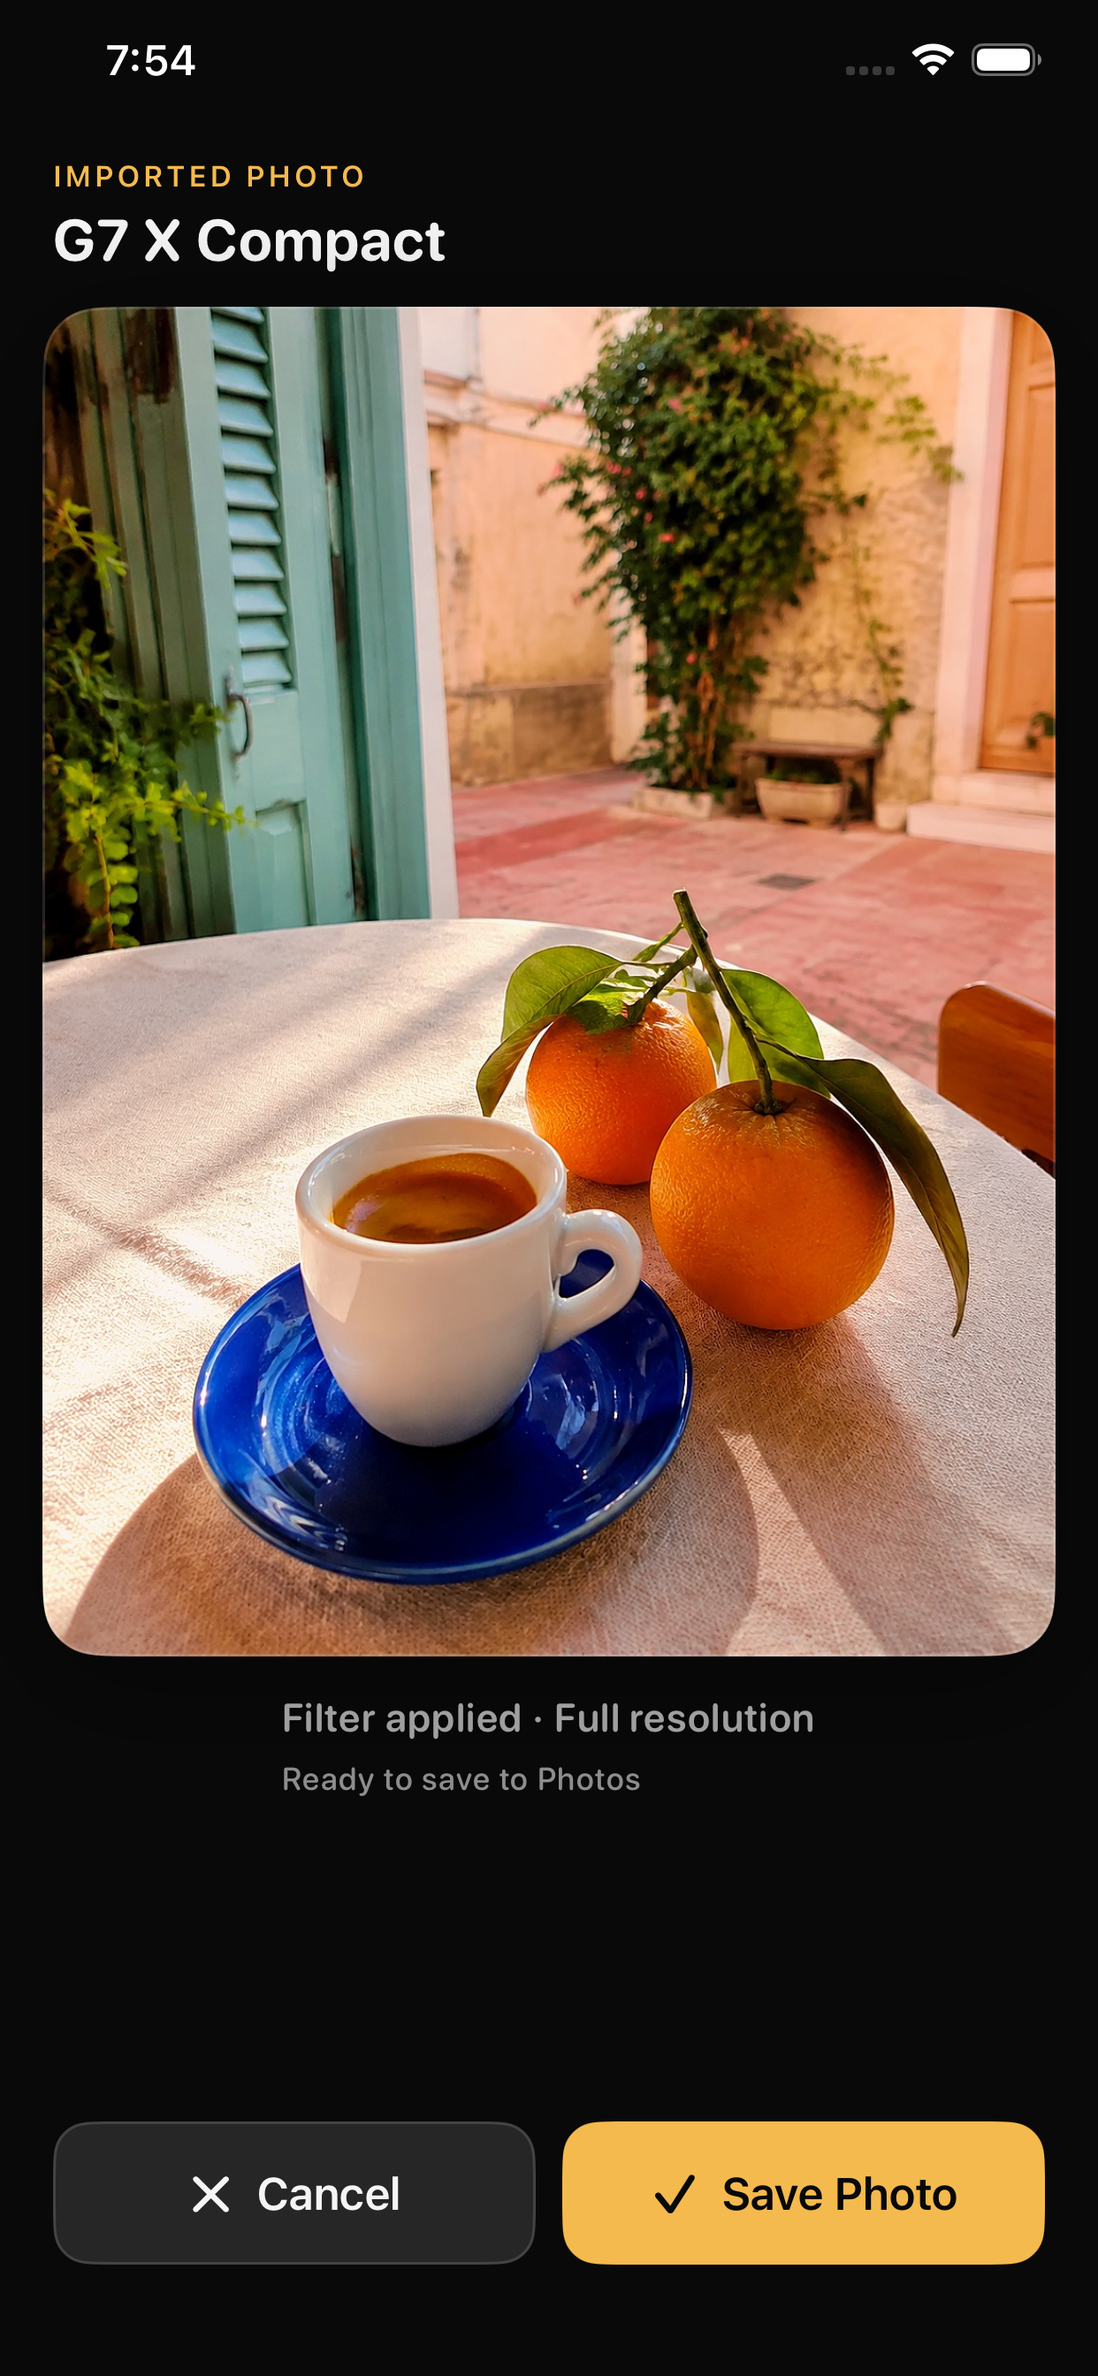
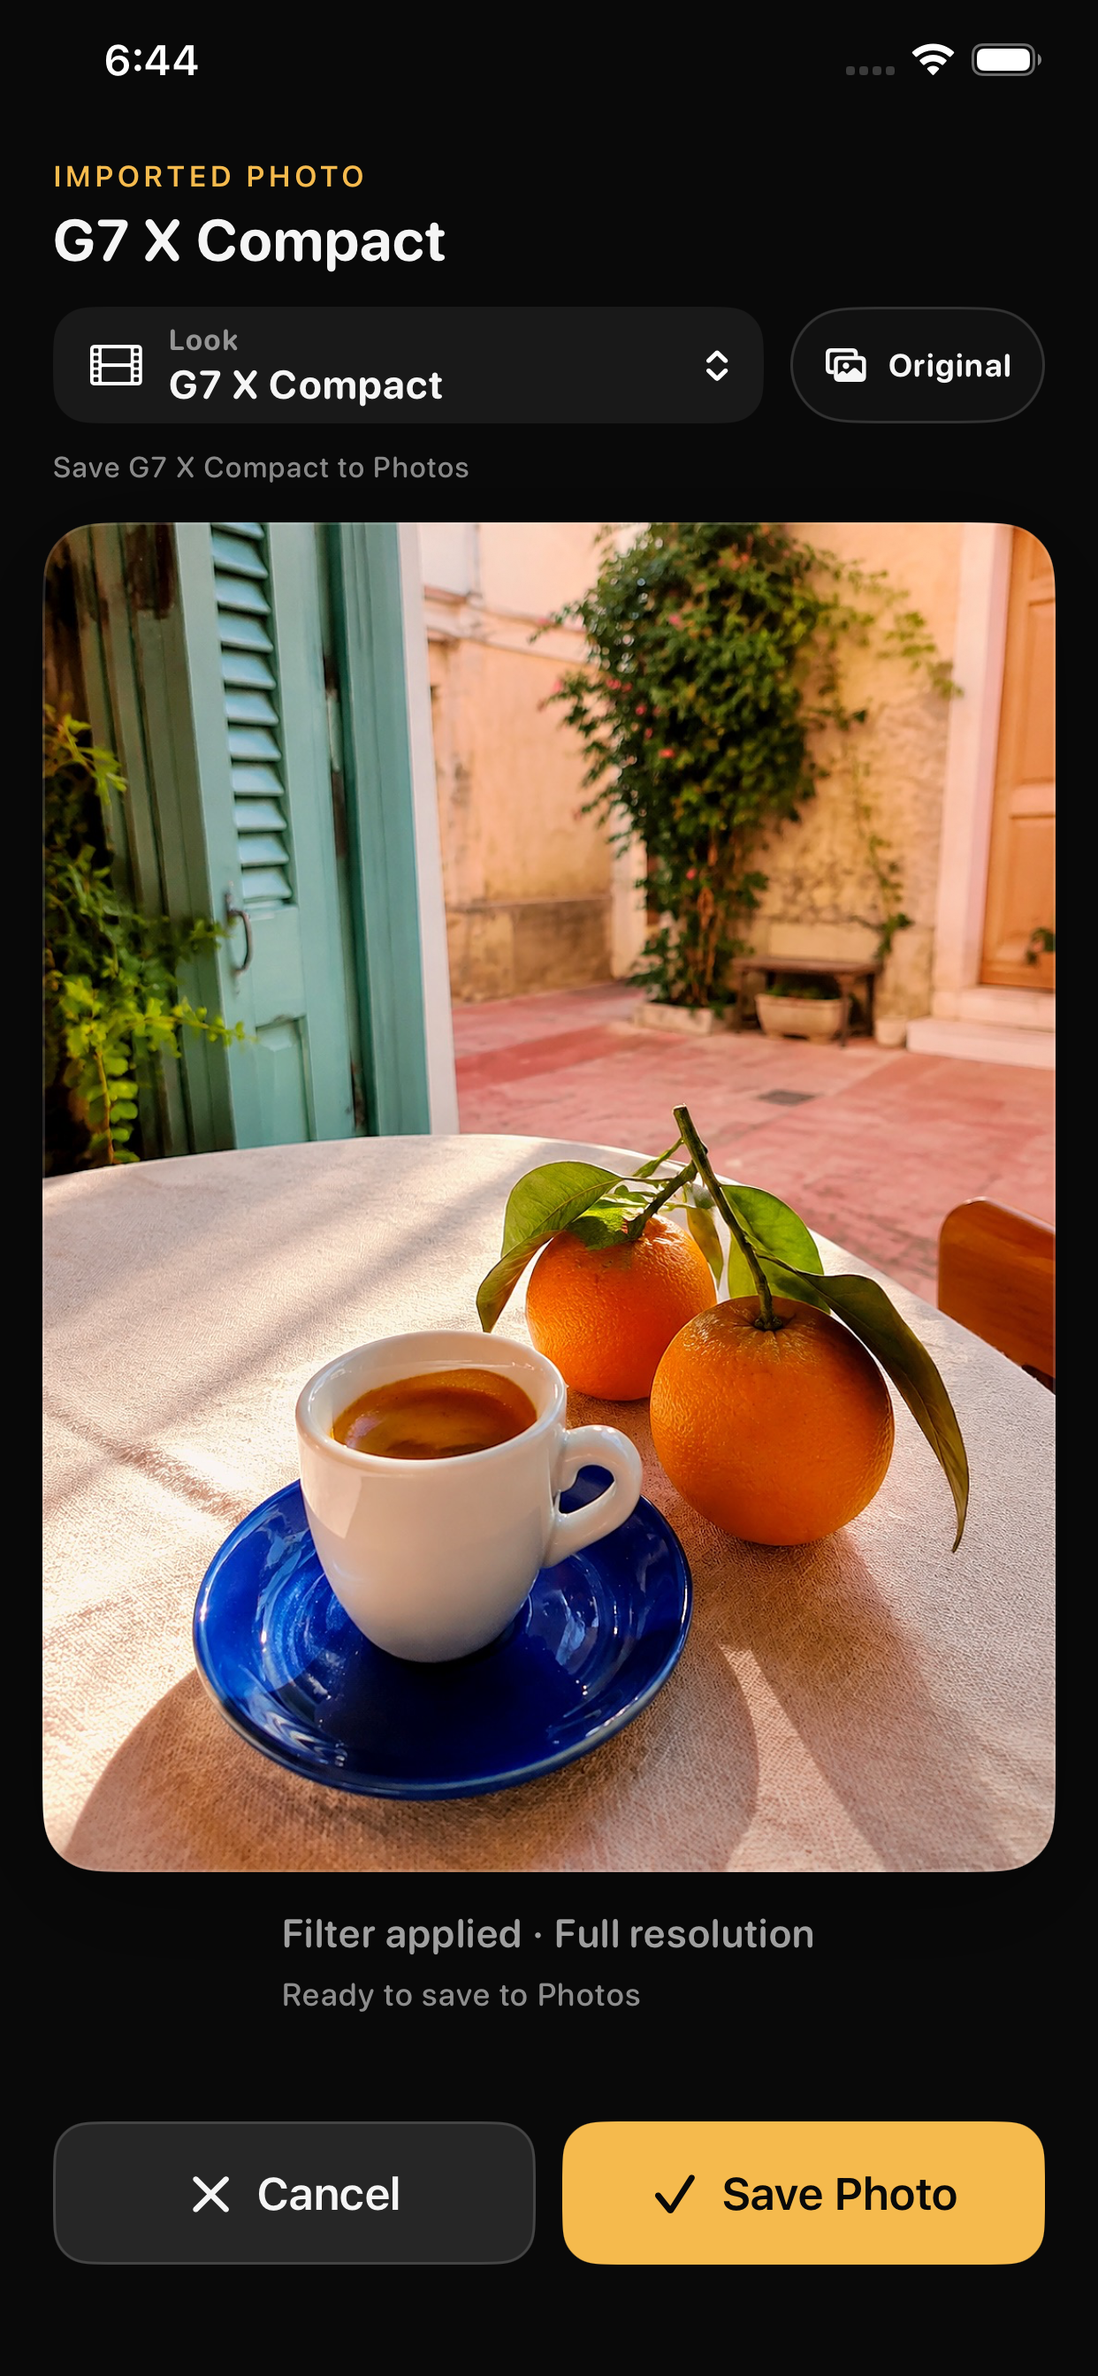
Isolate store media capture and support paged look menus in E2E tests

diff --git a/FilmyCameraUITests/NormalPhotoFlowTests.swift b/FilmyCameraUITests/NormalPhotoFlowTests.swift
@@ -114,7 +114,20 @@ final class NormalPhotoFlowTests: XCTestCase {
 
         lookPicker.tap()
         let monochrome = app.buttons["review-look-acros-monochrome"]
-        XCTAssertTrue(monochrome.waitForExistence(timeout: 5), "Look selection must expose the monochrome treatment")
+        let lookMenu = app.collectionViews.containing(
+            .button,
+            identifier: "review-look-g7x-compact"
+        ).firstMatch
+        XCTAssertTrue(lookMenu.waitForExistence(timeout: 5), "Look selection must present its recipe menu")
+        for _ in 0..<3 {
+            if monochrome.exists, monochrome.isHittable { break }
+            lookMenu.swipeUp()
+        }
+        XCTAssertTrue(
+            monochrome.waitForExistence(timeout: 5) && monochrome.isHittable,
+            "Look selection must expose the exact monochrome treatment after scrolling its menu"
+        )
+        attachScreenshot(named: "review-look-menu-monochrome")
         monochrome.tap()
         XCTAssertTrue(
             waitUntil(timeout: 30) {

diff --git a/scripts/testing/run.py b/scripts/testing/run.py
@@ -6,6 +6,7 @@ simulator; physical Photos writes require an explicit command-line opt-in.
 """
 import argparse
 from collections import Counter
+from contextlib import contextmanager
 from datetime import datetime, timezone
 import hashlib
 import json
@@ -39,8 +40,9 @@ ENVIRONMENT = {
     "lens": {"FILMY_RUN_LENS_ACCEPTANCE": "1"},
     "add-only": {"FILMY_RUN_PHOTOS_WRITE": "1", "FILMY_RUN_ADD_ONLY_CACHE_QA": "1"},
     "capture-sheet": {"FILMY_RUN_CAPTURE_SHEET": "1"},
-    "store-media": {"FILMY_RUN_STORE_MEDIA": "1"}
+    "store-media": {"FILMY_RUN_STORE_MEDIA": "1", "FILMY_STORE_PRIOR_SAVES": "0"}
 }
+FRESH_PHOTOS_SIMULATOR_PHASES = {"photos-e2e", "store-media"}
 
 
 def inventory(root=ROOT, manifest_path=MANIFEST):
@@ -118,7 +120,9 @@ def test_environment(phase, inherited=None):
     env = dict(os.environ if inherited is None else inherited)
     # A prior benchmark/Photos opt-in in the shell must not widen this lane.
     for key in list(env):
-        if key.startswith("FILMY_RUN_") or key.startswith("TEST_RUNNER_FILMY_RUN_"):
+        if (key.startswith("FILMY_RUN_")
+                or key.startswith("TEST_RUNNER_FILMY_RUN_")
+                or key in {"FILMY_STORE_PRIOR_SAVES", "TEST_RUNNER_FILMY_STORE_PRIOR_SAVES"}):
             del env[key]
     for key, value in ENVIRONMENT.get(phase, {}).items():
         env["TEST_RUNNER_" + key] = value
@@ -202,6 +206,18 @@ def destroy_simulator(owned):
     subprocess.run(["xcrun", "simctl", "delete", owned], check=True)
 
 
+@contextmanager
+def isolated_photos_destination(phase, destination):
+    if phase not in FRESH_PHOTOS_SIMULATOR_PHASES:
+        yield destination
+        return
+    owned = create_photos_simulator(destination)
+    try:
+        yield "platform=iOS Simulator,id=" + owned
+    finally:
+        destroy_simulator(owned)
+
+
 def summarize_result(result, exit_code):
     if not result.exists():
         return {"status": "failed", "reason": "XCTest did not produce a result bundle", "exitCode": exit_code}
@@ -274,13 +290,8 @@ def main(argv=None):
         result = output / f"FilmyCamera{name}.xcresult"
         if result.exists():
             raise ValueError(f"Refusing to overwrite evidence: {result}; choose another --output-dir")
-        owned_simulator = None
-        phase_destination = destination
         started = time.monotonic()
-        try:
-            if phase == "photos-e2e":
-                owned_simulator = create_photos_simulator(destination)
-                phase_destination = "platform=iOS Simulator,id=" + owned_simulator
+        with isolated_photos_destination(phase, destination) as phase_destination:
             command = xcode_command(phase_destination, args.derived_data, args.coverage)
             command += ["-resultBundlePath", str(result)]
             command += ["-only-testing:" + test for test in selectors]
@@ -299,9 +310,6 @@ def main(argv=None):
             print(json.dumps({key: summary.get(key) for key in ("lane", "status", "passed", "failed", "skipped")}), flush=True)
             if summary["status"] != "passed":
                 return code or 1
-        finally:
-            if owned_simulator:
-                destroy_simulator(owned_simulator)
     return 0
 
 

diff --git a/scripts/testing/test_runner.py b/scripts/testing/test_runner.py
@@ -83,6 +83,17 @@ class SuiteRoutingTests(unittest.TestCase):
         self.assertEqual(env, {"PATH": "/test/bin"})
         self.assertEqual(run.test_environment("photos-e2e", {}),
                          {"TEST_RUNNER_FILMY_RUN_SEEDED_PHOTOS_E2E": "1"})
+        self.assertEqual(
+            run.test_environment("store-media", {
+                "FILMY_STORE_PRIOR_SAVES": "4",
+                "TEST_RUNNER_FILMY_STORE_PRIOR_SAVES": "7",
+                "FILMY_RUN_STORE_MEDIA": "1",
+            }),
+            {
+                "TEST_RUNNER_FILMY_RUN_STORE_MEDIA": "1",
+                "TEST_RUNNER_FILMY_STORE_PRIOR_SAVES": "0",
+            },
+        )
 
     def test_device_writes_fail_before_any_process_without_opt_in(self):
         with patch.object(run.subprocess, "Popen") as process:
@@ -120,6 +131,27 @@ class SuiteRoutingTests(unittest.TestCase):
             with self.assertRaises(RuntimeError):
                 run.create_photos_simulator("platform=iOS Simulator,id=reference")
             destroy.assert_called_once_with("owned")
+
+    def test_photos_and_store_media_destroy_their_owned_simulator_on_exit(self):
+        for phase in ("photos-e2e", "store-media"):
+            with self.subTest(phase=phase), \
+                    patch.object(run, "create_photos_simulator", return_value="owned") as create, \
+                    patch.object(run, "destroy_simulator") as destroy:
+                with self.assertRaisesRegex(RuntimeError, "test stopped"):
+                    with run.isolated_photos_destination(
+                        phase, "platform=iOS Simulator,id=reference"
+                    ) as destination:
+                        self.assertEqual(destination, "platform=iOS Simulator,id=owned")
+                        raise RuntimeError("test stopped")
+                create.assert_called_once_with("platform=iOS Simulator,id=reference")
+                destroy.assert_called_once_with("owned")
+
+        with patch.object(run, "create_photos_simulator") as create:
+            with run.isolated_photos_destination(
+                "e2e", "platform=iOS Simulator,id=reference"
+            ) as destination:
+                self.assertEqual(destination, "platform=iOS Simulator,id=reference")
+            create.assert_not_called()
 
 
 class EvidenceTests(unittest.TestCase):

diff --git a/docs/review-editing-20260904.md b/docs/review-editing-20260904.md
@@ -22,7 +22,7 @@ September 5 local validation used Xcode 26.6 (17F113), an iPad Pro 13-inch simul
 - **180 unit/integration tests passed**, with no failures or skips. Seven new review cases cover deferred full exports, source comparison, latest-selection wins, cancellation and stale results, exact save retry, original camera crop/orientation/flash/date/subject mapping, maximum-grain output parity, and reuse when returning to the cached look.
 - **Three real Photos E2E tests passed**, with no failures or skips: G7 X import/save/relaunch/Roll detail; largest accessibility text with cancellation preserving Roll count; and Original comparison, monochrome selection, landscape controls, and saving the selected treatment while Original is visible. Each test selects the same public source fixture, skipping newer outputs from preceding cases.
 - **All 23 applicable physical tests passed**: two hardware flash tests and 21 UI tests. This covers fresh Metal preview revisions, capture/Retake, import/save, G7 X flash review, save/Roll/detail/zoom/share cancellation, recipe editing, navigation, large text, portrait/landscape, and lifecycle recovery. Test photos remain on the device; share sheets were cancelled.
-- **19 portable runner tests passed.** Routine CI selects 201 app tests (180 core, 18 simulator UI, three Photos E2E), compiles once, and reuses products. Hardware-only and benchmark lanes remain opt-in.
+- **20 portable runner tests passed.** Routine CI selects 201 app tests (180 core, 18 simulator UI, three Photos E2E), compiles once, and reuses products. Hardware-only and benchmark lanes remain opt-in.
 
 The first device attempt timed out while enabling UI automation. Relaunching the app recovered the next run. That run's strict summary initially reported a count mismatch: the source inventory selected two simulator-only declarations absent from the device bundle. The explicit `simulator-e2e` group now retains those cases in simulator CI and excludes them from hardware; the completeness check remains strict. The original result and its failed count summary are preserved as evidence rather than rewritten.
 
@@ -34,8 +34,20 @@ Physical screenshot inspection found the look name truncated in the narrower 11-
 
[1 lines of base64/hex data omitted]
 
[2 lines of base64/hex data omitted]
 
 This validates the implemented review behavior, not comparative camera fidelity or launch readiness. Sustained frame pacing, thermal/memory pressure, iPhone-specific lens coverage, controlled G7 X/Fuji reference comparisons, and App Store delivery remain separate release gates. Source retention lasts for the current review; this change does not introduce RAW capture or editing saved Roll originals.
 
 The configured public support and privacy-policy pages returned HTTP 200 with the expected Filmy content on September 5. They are hosted separately and were not redeployed by this change.
+
+## Cross-version test and media corrections
+
+GitHub run `33959819984` passed all 180 core and 18 UI tests on iOS 18.5, then failed one of three Photos E2Es because the phone's three-page native menu had not materialized its offscreen monochrome option. The test now scrolls that menu with a bounded gesture until the exact option is present and hittable. All three Photos E2Es passed on a fresh local iPhone 16 Pro simulator running iOS 18.5 (`photos-fixed18/FilmyCameraPhotosE2E.xcresult`). The selected-look, Original, save, and relaunch assertions remain intact.
+
[1 lines of base64/hex data omitted]
+
+## Physical performance and release preparation
+
+Three existing synthetic renderer benchmarks passed on the A12Z iPad in Debug, with nominal thermal state at the import test start. G7 X preview rendering averaged 15.7 ms at 988×1316 across eight measured iterations after warmup. Its 12 MP import-to-review samples were 403.9, 213.5, and 216.7 ms (216.7 ms median). These are renderer/import measurements, not sustained camera frame pacing or a comparison against another build. Results are in `device-performance.xcresult`.
+
[1 lines of base64/hex data omitted]

diff --git a/docs/app-store/screenshots/iphone-6.5-current/README.md b/docs/app-store/screenshots/iphone-6.5-current/README.md
@@ -1,15 +1,17 @@
 # Current iPhone 6.5-inch App Store screenshot pack
 
-Five actual 1242×2688 PNGs from version 1.0.0 (7), captured September 4, 2026 after the camera UX redesign and review-inset fix. These replace the build 5 baseline locally; uploading them to App Store Connect is a separate release gate.
+Five actual 1242×2688 PNGs from version 1.0.0 (8), captured September 5, 2026 with reversible review look selection and Original comparison. Uploading this replacement pack to App Store Connect remains a separate release gate.
 
 1. G7 X Compact import
 2. Muted Color import
 3. Fine Monochrome import
-4. Populated Roll
-5. Photo detail
+4. Populated Roll with exactly three matching saved treatments
+5. Fine Monochrome photo detail
 
-The public generated cafe original in `../demo-source/` was imported through the normal production Photos picker, renderer, review, save, Roll, and detail flows. This demonstrates imported media, not live camera capture. No private photos or composited app UI are included. The iPhone Roll also retains a G7 X frame saved during an earlier test; FILMY_STORE_PRIOR_SAVES=1 kept the selected source on the original.
+The public generated cafe original in `../demo-source/` was imported through the normal production Photos picker, renderer, review, save, Roll, and detail flows. This demonstrates imported media, not live camera capture. No private photos or composited app UI are included.
 
-Evidence: `build/ux-redesign-20260904/iphone-review-accepted.xcresult` and its exported attachment manifest (ignored). The run passed all three treatments, status-bar/bottom-gesture clearance, photo width, covered-camera interaction, saving, and Roll/detail checks. The final narrow camera-look label adjustment is outside the screens represented in this pack.
+The hardened store-media runner created and seeded an isolated iPhone 11 Pro Max simulator on iOS 26.5, forced zero prior saves, and removed only that owned simulator afterward. Reference simulator libraries were untouched. All five images were visually inspected: G7 X is vivid, Muted Color is restrained, and Fine Monochrome is grayscale; the Roll shows their corresponding saved outputs.
+
[1 lines of base64/hex data omitted]
 
 Run `scripts/release/validate-store-media.sh` for format/dimension checks. Structural validation is separate from visual inspection and App Store Connect acceptance.

diff --git a/docs/app-store/screenshots/ipad-13-current/README.md b/docs/app-store/screenshots/ipad-13-current/README.md
@@ -1,15 +1,17 @@
 # Current iPad 13-inch App Store screenshot pack
 
-Five actual 2064×2752 PNGs from version 1.0.0 (7), captured September 4, 2026 after the camera UX redesign and review-inset fix. These replace the build 5 baseline locally; uploading them to App Store Connect is a separate release gate.
+Five actual 2064×2752 PNGs from version 1.0.0 (8), captured September 5, 2026 with reversible review look selection and Original comparison. Uploading this replacement pack to App Store Connect remains a separate release gate.
 
 1. G7 X Compact import
 2. Muted Color import
 3. Fine Monochrome import
-4. Populated Roll
-5. Photo detail
+4. Populated Roll with exactly three matching saved treatments
+5. Fine Monochrome photo detail
 
 The public generated cafe original in `../demo-source/` was imported through the normal production Photos picker, renderer, review, save, Roll, and detail flows. This demonstrates imported media, not live camera capture. No private photos or composited app UI are included.
 
-Evidence: `build/ux-redesign-20260904/ipad-review-accepted.xcresult` and its exported attachment manifest (ignored). The run passed all three treatments, status-bar/bottom-gesture clearance, photo width, covered-camera interaction, saving, and Roll/detail checks. The final narrow camera-look label adjustment is outside the screens represented in this pack.
+The hardened store-media runner created and seeded an isolated iPad Pro 13-inch (M5) simulator on iOS 26.5, forced zero prior saves, and removed only that owned simulator afterward. Reference simulator libraries were untouched. All five images were visually inspected: G7 X is vivid, Muted Color is restrained, and Fine Monochrome is grayscale; the Roll shows their corresponding saved outputs.
+
[1 lines of base64/hex data omitted]
 
 Run `scripts/release/validate-store-media.sh` for format/dimension checks. Structural validation is separate from visual inspection and App Store Connect acceptance.

diff --git a/docs/release-checklist.md b/docs/release-checklist.md
@@ -5,10 +5,11 @@ Current candidate: version 1.0.0, build 8, with the [camera UX redesign](design-
 ## Build 8 release gates
 
 - [x] Implement review look switching and Original comparison with bounded previews, deferred full export, exact retry, and independent shooting selection.
-- [x] Pass local 180 unit/integration tests and three normal Photos E2E flows. The test runner has 19 portable checks and selects 201 app tests for routine CI.
+- [x] Pass local 180 unit/integration tests and three normal Photos E2E flows on iPadOS 26.5 and iOS 18.5. The test runner has 20 portable checks and selects 201 app tests for routine CI.
 - [x] Install the signed 1.0.0 (8) app and pass all 23 applicable iPad tests. The strengthened physical capture/compare/look-switch/landscape/save case also passed separately.
 - [ ] Pass required CI on the final commit, archive the clean source, and validate signed archive/IPA parity.
-- [ ] Refresh store screenshots to show current review controls, upload build 8, verify processing, select the matching build/media, and validate the review draft.
+- [x] Refresh and inspect five iPhone and five iPad store screenshots from isolated public-fixture runs, showing current review controls and matching saved treatments.
+- [ ] Upload build 8 and the refreshed media, verify processing, select the matching build/media, and validate the review draft.
 - [ ] Complete the iPhone-specific, controlled image-quality, and submission gates below.
 
 ## Preserved build 7 release gates

diff --git a/docs/testing.md b/docs/testing.md
@@ -80,7 +80,7 @@ python3 scripts/testing/run.py device \
 | `add-only` | Configure **Add Photos Only** in Settings first; requires `--allow-photos-writes`. Checks readable local Roll/cache after save and relaunch. |
 | `capture-sheet` | Physical device with a stable scene; attaches recipe captures without saving them to Photos. |
 | `fixtures` | Local render fixtures under `FilmyCameraTests/Fixtures`; regenerate the project after adding them. Private fixture files and results stay untracked. Empty fixture sets skip explicitly. |
-| `store-media` | Dedicated simulator seeded with `docs/app-store/screenshots/demo-source/cafe-original.png` using `xcrun simctl addmedia`; grants Photos access during the flow and attaches store-media screenshots to the result bundle. |
+| `store-media` | Pass any reference simulator UUID. The runner creates a fresh simulator with the same device type/runtime, seeds only `docs/app-store/screenshots/demo-source/cafe-original.png`, forces zero prior saves, and destroys its owned simulator afterward. The reference simulator is untouched. Screenshots are attached to the result bundle. |
 
 Optional lanes report prerequisites and skips explicitly. A passing supported subset with skips does not validate the skipped hardware behavior. Physical screenshot attachments may contain personal surroundings or photos; keep them local.
 
